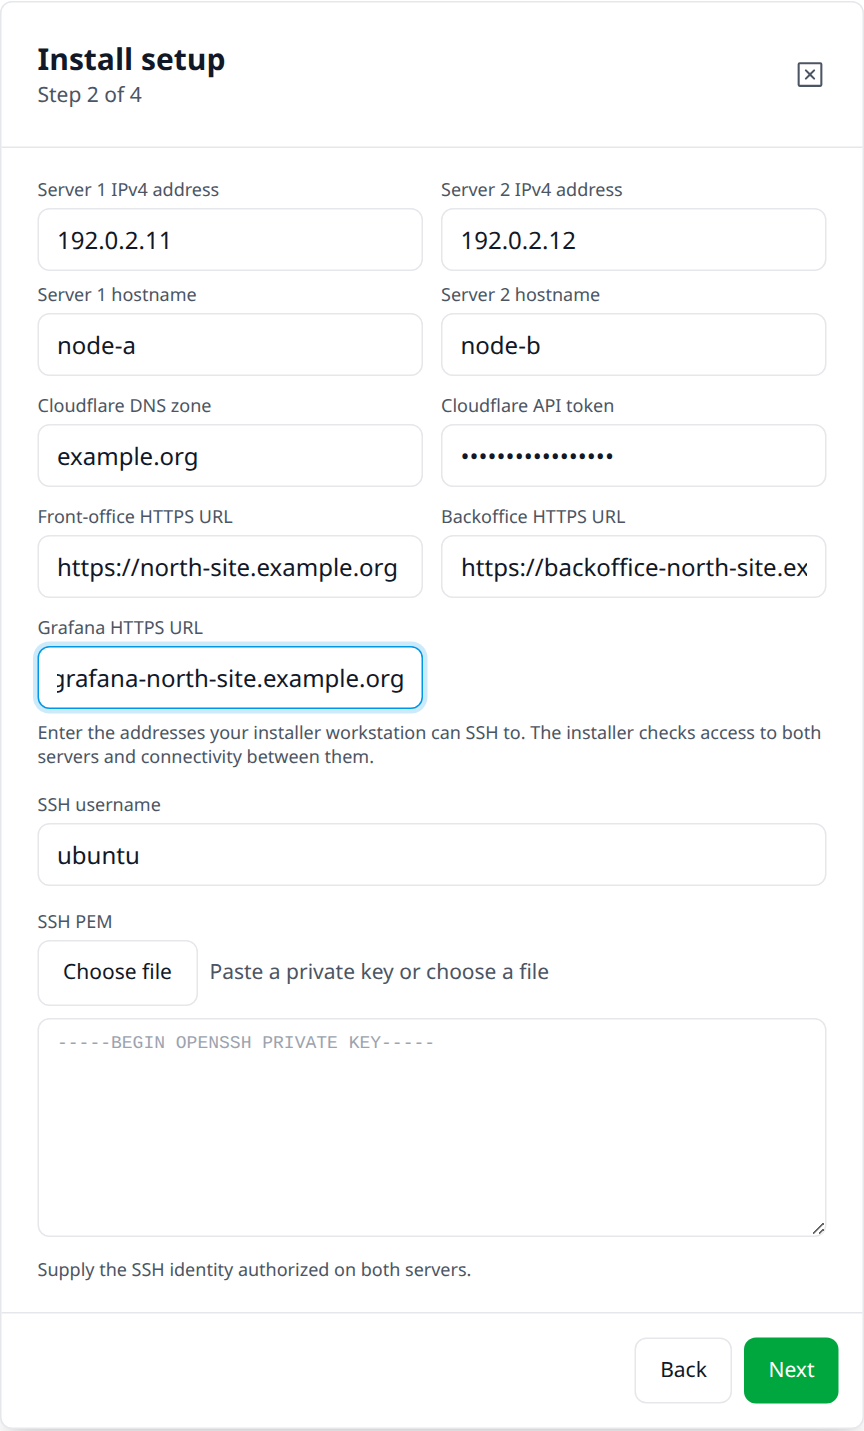
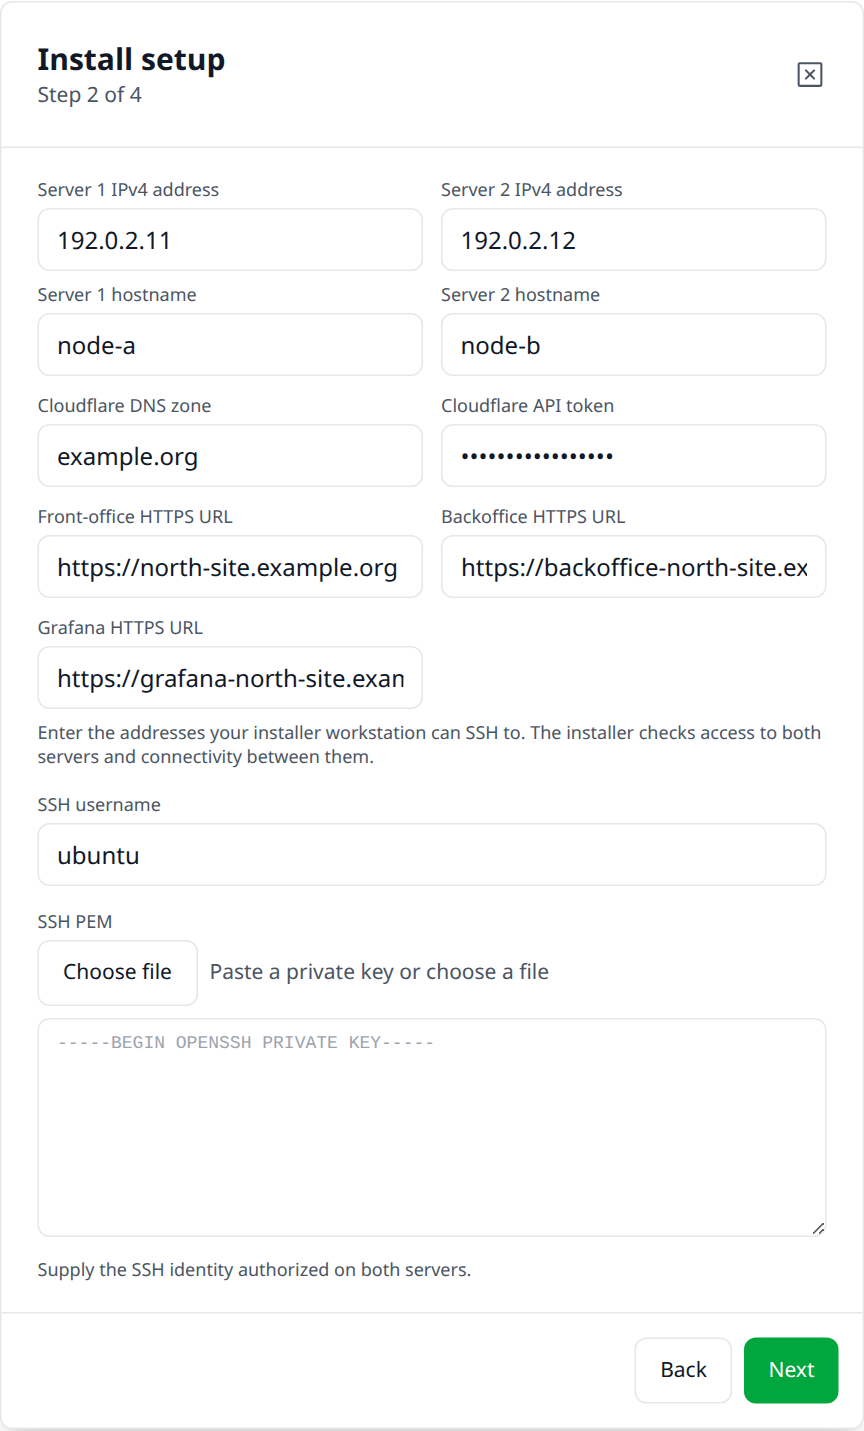
Document the Install setup menu, DNS validation and GCP recovery

Changed region(s): [[0.0312, 0.4305, 0.5, 0.5227]]

diff --git a/docs/PREREQUISITES.md b/docs/PREREQUISITES.md
@@ -13,13 +13,29 @@ The optional bare-metal readiness check uses the same Trust account ID and hidde
 
 ## Prepare the Trust installation
 
-Sign in to your customer account as a **super user**. Click your display name, open **User Details**, then select **Install setup** in the footer. The screenshots below use the instructional mock server and example data. [Open Trust](https://trust.certlocker.io)
+Sign in as a **super user**. Select your display name in the header to open **User Details**, then choose **Install setup** at the bottom left. The following screenshots use the mock server and example customer data. [Open Trust](https://trust.certlocker.io)
+
+<img src="images/install-account-menu.png" width="720" alt="Trust header with the signed-in user's display name">
+
+<details><summary>Find Install setup in User Details</summary>
+
+<img src="images/install-user-details.png" width="480" alt="User Details with the Install setup button in the footer">
+
+</details>
 
 1. **Name the installation and choose its type.** Choose **GENERIC** for existing machines or **GCP** for Google provisioning. The install name identifies the group containing your installation records.
 
    <img src="images/install-type.png" width="480" alt="Install setup with the north-site group and GENERIC selected">
 
 2. **Set up SSH access.** For GENERIC, enter the two distinct management IPv4 addresses your installer workstation uses to reach the machines over SSH. Enter the two short hostnames in the same order. Both GENERIC and GCP accept the Cloudflare zone, front-office URL, backoffice URL, Grafana URL and zone API token. In GCP the server hostnames name the VMs that Terraform creates. Enter the non-root username with passwordless sudo and upload its private key. Both machines must authorize the matching public key. For GCP, leave both SSH fields blank to generate a dedicated install key. To add your own public key to both Google VMs as well, supply its matching username and private key here.
+
+   Enter the Cloudflare zone as a domain, for example `example.org`. Each service needs a distinct HTTPS hostname directly under that zone, such as `https://app.example.org`. The grey examples are placeholders. Correct any mismatch before choosing **Next**.
+
+   <details><summary>DNS zone validation example</summary>
+
+   <img src="images/install-dns-validation.png" width="480" alt="An example.net front-office URL triggers a validation message for the example.org zone">
+
+   </details>
 
    <details><summary>SSH for existing machines</summary>
 

diff --git a/docs/INSTALLATION.md b/docs/INSTALLATION.md
@@ -106,7 +106,9 @@ and selects a packaged Linux controller when the native toolchain is incomplete.
 On macOS, complete any Homebrew, Docker Desktop, administrator and first-run
 prompts. Debian/Ubuntu can install Docker through the bootstrap; other Linux
 distributions need a Docker-compatible engine prepared by your administrator.
-Google browser login stays on your workstation.
+Google browser login stays on your workstation. Select the Google project where the VMs will run. Google setup needs one available project-wide VPC network slot for a fresh pair. If the project has reached its network quota, free a slot or increase the limit before retrying.
+
+When running GCP alongside bare metal, use a separate company slug and distinct service hostnames. Trust supplies the site settings from **User Details → Install setup → GCP**. For setup issued by a local Trust, run `./uncloudctl up --trust-url=http://localhost:8080/gateway/rest/api` and use the same Trust URL for later maintenance.
 
 To prepare the toolchain before installation, optionally run:
 
@@ -256,7 +258,7 @@ After verified teardown, the active inventory is archived under that run's
 `up --config` to install a fresh pair. Keep the original Install setup records and provide the initial administrator
 password again when running unattended after revoking deployment records.
 If a repeated `destroy --remove-dns` runs after its Cloudflare record was revoked,
-inject `CLOUDFLARE_API_TOKEN`; teardown validates it before checking owned routing.
+supply a current zone-scoped credential through `CLOUDFLARE_API_TOKEN`. The uninstaller checks ownership before removing routing and uses the saved Grafana URL when the Trust ingress record is absent.
 
 Local cleanup is separate:
 

diff --git a/README.md b/README.md
@@ -1,7 +1,7 @@
 # CertLocker customer installer
 
 For Google Cloud, create or sign in to your account at [trust.certlocker.io](https://trust.certlocker.io).
-Open **Install setup**, choose **GCP**, and enter your application SMTP settings.
+Select your display name in the Trust header, then **User Details → Install setup**. Choose **GCP** and enter the DNS, site and SMTP settings. [Illustrated setup guide](docs/PREREQUISITES.md#prepare-the-trust-installation)
 Copy the account ID and four-hour installer token, then run this on your workstation.
 
 ```sh
